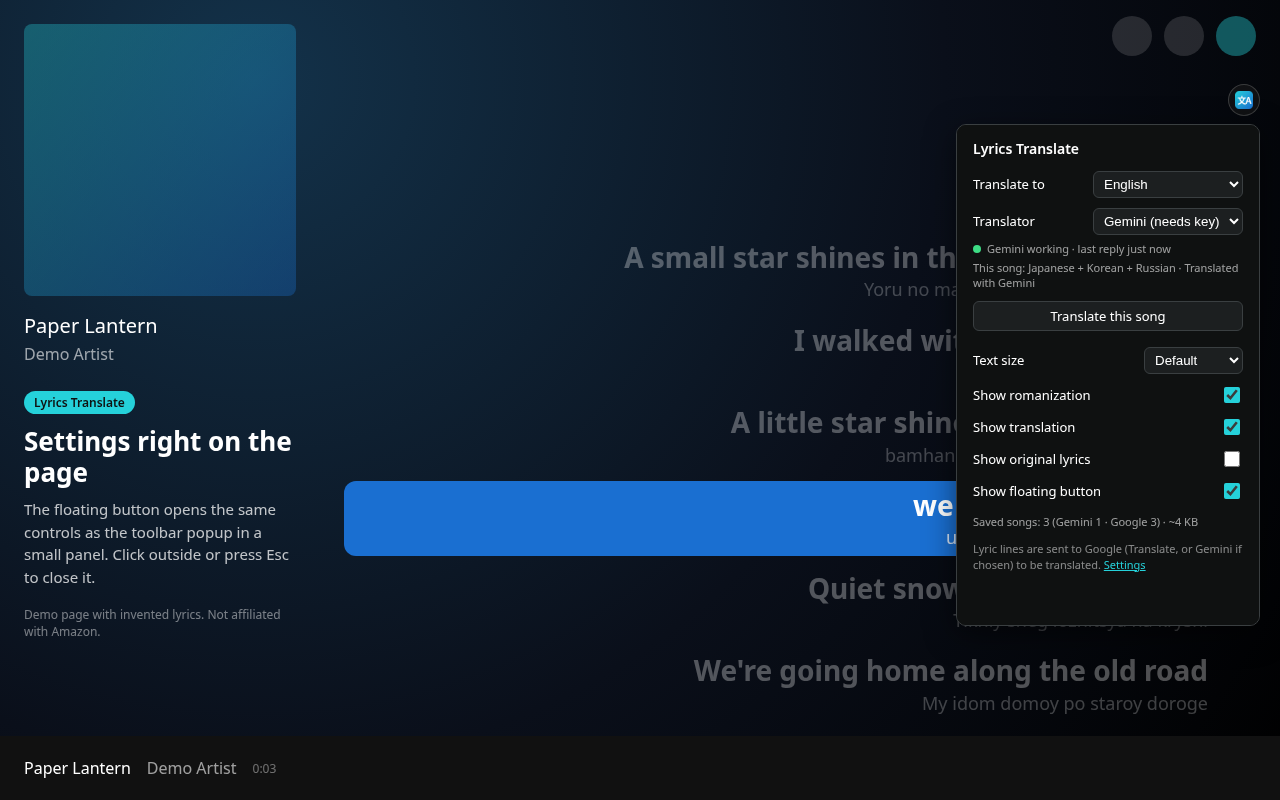
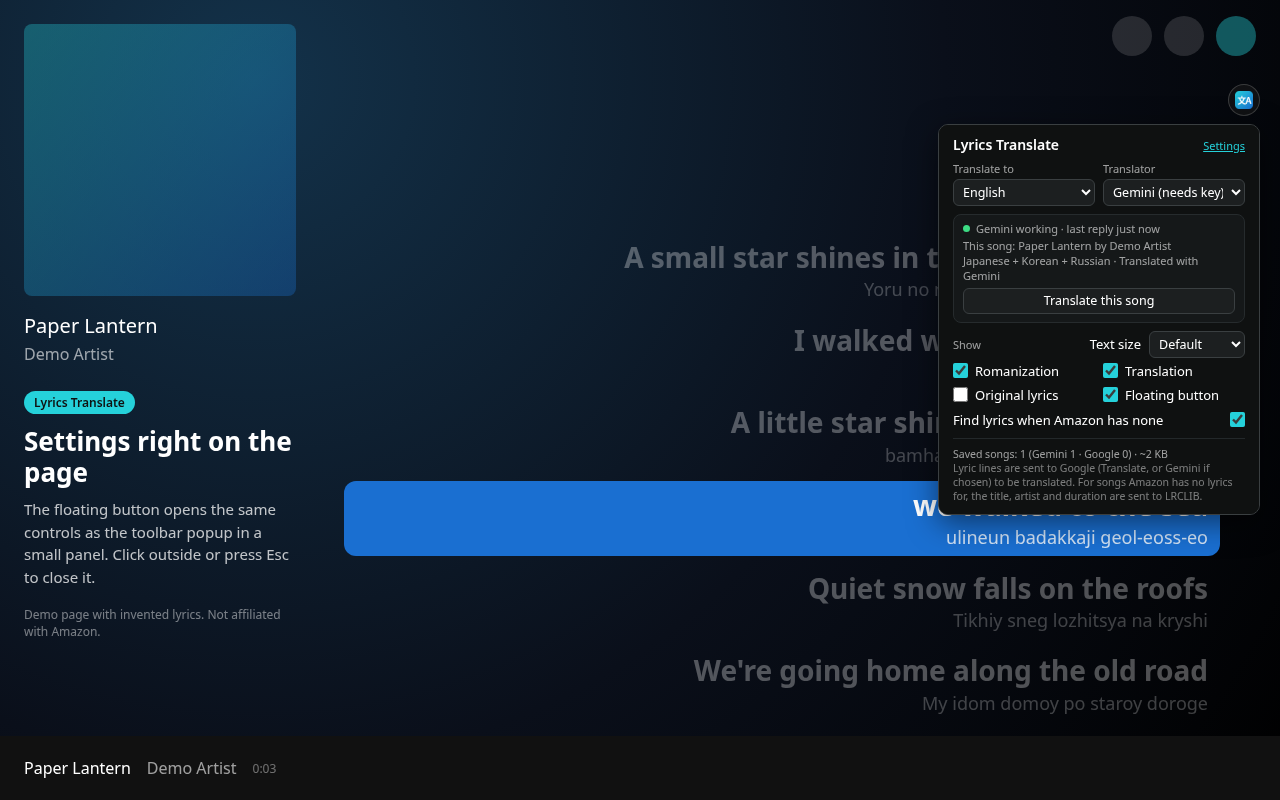
site: refresh popup images and text for 1.3.5
New docs/img/popup.png (644x786, 2x) and docs/img/4-floating-panel.png (1280x800) show the 1.3.5 popup (store-style copy, invented song, no real lyrics). Popup wording: Show toggles, Settings link at the top, Check for updates is a footer link.

Changed region(s): [[0.7188, 0.1562, 0.9688, 0.7812], [0.9375, 0.1562, 0.9688, 0.1875]]

diff --git a/docs/index.html b/docs/index.html
@@ -52,7 +52,7 @@
       <div class="card"><div class="icon">Aa</div><h3>Romanization</h3>
         <p>Non-Latin lines get a romanization in small text: romaji for Japanese, pinyin for Chinese, Revised Romanization for Korean, plus Cyrillic, Arabic, Hebrew, Devanagari, Thai, Greek and more. Latin-script lines never get one.</p></div>
       <div class="card"><div class="icon">⤒</div><h3>Translation as the main line</h3>
-        <p>By default the translation replaces the original as the big, bold line, with the romanization underneath. Turn on <b>Original lyrics</b> ("Show original lyrics" in the popup) to keep the original big and show the extras in small text.</p></div>
+        <p>By default the translation replaces the original as the big, bold line, with the romanization underneath. Turn on <b>Original lyrics</b> in the popup to keep the original big and show the extras in small text.</p></div>
       <div class="card"><div class="icon">◉</div><h3>Floating button</h3>
         <p>A small round button in the top-right corner of the player opens the popup as a panel right on the page. Click outside it or press <kbd>Esc</kbd> to close it, or hide the button in the popup.</p></div>
       <div class="card"><div class="icon">⟳</div><h3>Per-song cache</h3>
@@ -114,7 +114,7 @@
     <h2>The popup</h2>
     <p class="sub">Click the toolbar icon (or the floating button). Changes apply immediately to the open lyrics.</p>
     <div class="popup-wrap">
-      <div class="popup-img"><img src="img/popup.png" width="608" height="1124" alt="The extension popup: target language, translator, Gemini status, this song's title, artist and status, a note that the lyrics were added from LRCLIB, the Translate this song button, text size, toggles including Find lyrics when Amazon has none, and the saved-songs counter."></div>
+      <div class="popup-img"><img src="img/popup.png" width="644" height="786" alt="The extension popup: target language, translator, Gemini status, this song's title, artist and status, a note that the lyrics were added from LRCLIB, the Translate this song button, text size, toggles including Find lyrics when Amazon has none, and the saved-songs counter."></div>
       <dl class="controls">
         <dt>Translate to</dt><dd>Target language: 23 languages, including English, Spanish, French, German, Japanese, Korean, Chinese (Simplified and Traditional), Arabic, Hindi and more.</dd>
         <dt>Translator</dt><dd><b>Gemini (needs key)</b> or <b>Google Translate</b>. Gemini is picked automatically once you save a key.</dd>
@@ -122,10 +122,10 @@
         <dt>This song</dt><dd>The current song's title and artist, its detected language(s) and state, for example "Japanese + English · Translated with Gemini (from cache)", "English · Already in English, no translation needed" or "Translating…". For songs Amazon has no lyrics for, a second line says where the lyrics came from: "Lyrics added from LRCLIB (synced)", or "Amazon has no lyrics; none found on LRCLIB".</dd>
         <dt>Translate this song</dt><dd>Translates the open song again with the selected translator and stops it being skipped.</dd>
         <dt>Text size</dt><dd>Small (85%), Default, Large (120%) or Extra large (145%).</dd>
-        <dt>Toggles</dt><dd>Show romanization, Show translation, Show original lyrics, Show floating button, and <b>Find lyrics when Amazon has none</b> (on by default; turn it off and nothing is ever sent to LRCLIB).</dd>
+        <dt>Toggles</dt><dd>Under <b>Show</b>: Romanization, Translation, Original lyrics and Floating button. Below them, <b>Find lyrics when Amazon has none</b> (on by default; turn it off and nothing is ever sent to LRCLIB).</dd>
         <dt>Saved songs</dt><dd>For example "Saved songs: 12 (Gemini 8 · Google 6) · ~0.3 MB": how many songs are cached, how many are fully translated by each translator, and roughly how much storage is used.</dd>
-        <dt>Check for updates</dt><dd>Unpacked copies only: asks GitHub for the latest version and shows "You're up to date (v1.3.5)" or "Update available: vX.Y.Z · Download" with a one-line how-to. They also check on their own about once a day and put a small NEW badge on the icon when an update is out. Store copies don't show it; Edge updates them.</dd>
-        <dt>Settings</dt><dd>Opens the settings page, where you save, test or remove your Gemini key.</dd>
+        <dt>Check for updates</dt><dd>Unpacked copies only: a small link at the bottom of the popup that asks GitHub for the latest version and shows "You're up to date (v1.3.5)" or "Update available: vX.Y.Z · Download" with a one-line how-to. They also check on their own about once a day and put a small NEW badge on the icon when an update is out. Store copies don't show it; Edge updates them.</dd>
+        <dt>Settings</dt><dd>The link at the top of the popup. Opens the settings page, where you save, test or remove your Gemini key.</dd>
       </dl>
     </div>
   </div>
@@ -172,7 +172,7 @@
           <li>Click <b>Load unpacked</b> and pick the folder that contains <code>manifest.json</code>.</li>
           <li>Open <a href="https://music.amazon.com">music.amazon.com</a>, play a song and open the lyrics view.</li>
         </ol>
-        <p class="upd-note"><b>Unpacked copies tell you when a new version is out</b> (a small NEW badge and a download link in the popup) <b>and have a Check for updates button.</b> To update, unzip the new ZIP over your folder and press <b>Reload</b> on the extension card.</p></div>
+        <p class="upd-note"><b>Unpacked copies tell you when a new version is out</b> (a small NEW badge and a download link in the popup) <b>and have a Check for updates link at the bottom of the popup.</b> To update, unzip the new ZIP over your folder and press <b>Reload</b> on the extension card.</p></div>
     </div>
     <p class="note" style="margin-top:18px">Works on music.amazon.com (not regional domains such as .co.jp or .de). The Google Translate web endpoint is unofficial and rate-limited; if it refuses requests, lines stay as they are and the extension retries about a minute later.</p>
   </div>

diff --git a/README.md b/README.md
@@ -14,12 +14,12 @@ A free Microsoft Edge extension (Manifest V3, plain JS/HTML/CSS) that translates
 
 - **Two translators:** free Google Translate (no key, no account), or Google Gemini with your own free API key (saved only in your browser) for natural, whole-song translations. If Gemini hits a quota, rejects the key, times out or replies unexpectedly, the song is translated with Google Translate automatically.
 - **Romanization** for non-Latin scripts: Japanese (romaji), Chinese (pinyin), Korean, Cyrillic, Arabic, Hebrew, Devanagari, Thai, Greek and more.
-- **Translation as the main line**, with the romanization underneath. Turn on **Show original lyrics** to keep the original as the big line instead.
+- **Translation as the main line**, with the romanization underneath. Turn on **Original lyrics** in the popup to keep the original as the big line instead.
 - **Popup:** target language (23 languages), translator dropdown, romanization and translation toggles, text size (85–145%), a "This song" status line, a Gemini status dot, a saved-songs counter and a **Translate this song** button.
 - **Floating button** on the page that opens the popup as an in-page panel.
 - **Per-song cache:** up to 2000 songs, per translator and language; the least recently played songs are removed first.
 - **Skips songs already in your language**, so an English song with English selected never uses your Gemini quota. Since 1.3.3 this also holds when the lyrics contain symbols or a stray look-alike letter (e.g. a Cyrillic "е" typed into an English word), and a mostly English song with a few lines in another script (e.g. a Japanese phrase) only sends those lines to the translator.
-- **Update notice for unpacked copies (new in 1.3.4):** copies installed with **Load unpacked** tell you when a new version is out: a small **NEW** badge on the icon and an "Update available: vX.Y.Z · Download" line in the popup, plus a **Check for updates** button. Store copies never check; Edge updates them automatically.
+- **Update notice for unpacked copies (new in 1.3.4):** copies installed with **Load unpacked** tell you when a new version is out: a small **NEW** badge on the icon and an "Update available: vX.Y.Z · Download" line in the popup, plus a small **Check for updates** link at the bottom of the popup. Store copies never check; Edge updates them automatically.
 - **Lyrics when Amazon has none (new in 1.3.0):** if Amazon Music has no lyrics for the current song (no "LYRICS" badge next to the title in the player bar, and an empty lyrics area in the full view), they're looked up on [LRCLIB](https://lrclib.net) (free, open lyrics database) and shown in Amazon's full view, right where Amazon's own lyrics would appear and styled like them (since 1.3.2), with the current line highlighted in sync with playback, translated and romanized like Amazon's own lyrics. The popup shows "Lyrics added from LRCLIB (synced/unsynced)" (with "· open the full view to see them" while it's closed) or "Amazon has no lyrics; none found on LRCLIB". Only close matches (same title and artist, duration within 3 s) are used. Toggle: **Find lyrics when Amazon has none** (on by default).
 
 ![Synced lyrics from LRCLIB in the full view of a demo page, with invented lines](docs/img/6-lrclib-fullview.png)
@@ -27,7 +27,7 @@ A free Microsoft Edge extension (Manifest V3, plain JS/HTML/CSS) that translates
 ## Install
 
 - **Microsoft Edge Add-ons (recommended):** [install from the store](https://microsoftedge.microsoft.com/addons/detail/lyrics-translate-romanize-for-amazon-music/jjfhmmdjbkcamelimddcogoopaljflff). Store copies update automatically.
-- **Load unpacked:** download the ZIP from the [latest release](https://github.com/NoodlesNom/lyrics-translate-for-amazon-music/releases/latest) (or clone this repo), open `edge://extensions`, turn on **Developer mode**, click **Load unpacked** and select the folder that contains `manifest.json` (the [`extension`](extension) folder in this repo). The same works in Chrome and other Chromium browsers at `chrome://extensions`. Unpacked copies tell you when a new version is out (and have a **Check for updates** button); to update, download the new ZIP, unzip it over your folder and press **Reload** on the extension card.
+- **Load unpacked:** download the ZIP from the [latest release](https://github.com/NoodlesNom/lyrics-translate-for-amazon-music/releases/latest) (or clone this repo), open `edge://extensions`, turn on **Developer mode**, click **Load unpacked** and select the folder that contains `manifest.json` (the [`extension`](extension) folder in this repo). The same works in Chrome and other Chromium browsers at `chrome://extensions`. Unpacked copies tell you when a new version is out (and have a **Check for updates** link at the bottom of the popup); to update, download the new ZIP, unzip it over your folder and press **Reload** on the extension card.
 
 Full usage notes, the Gemini setup and known limits are in [extension/README.md](extension/README.md).
 
